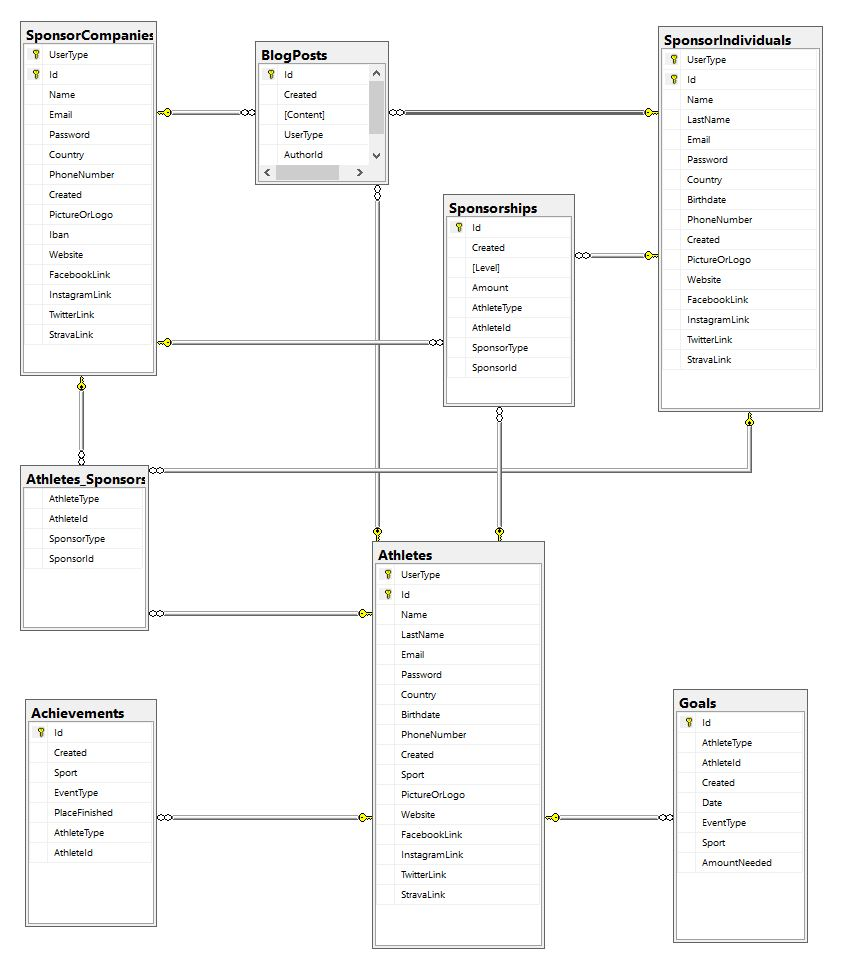
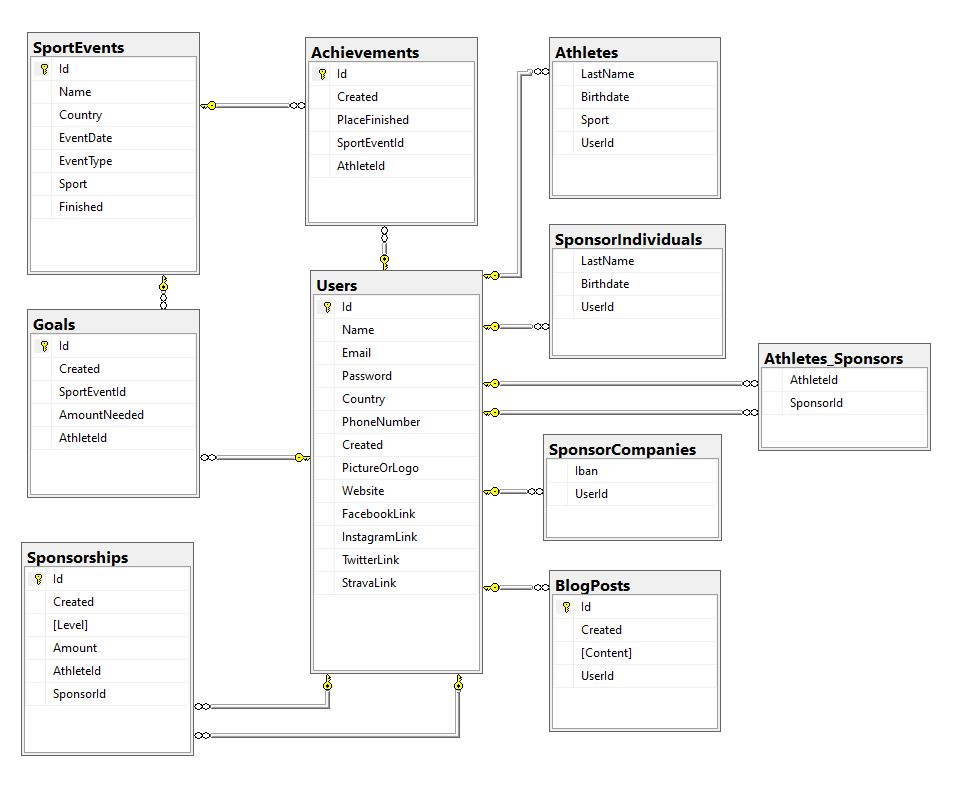
Update the ClassDiagram and the DBTableDiagram

diff --git a/SponsorSphere/Program.cs b/SponsorSphere/Program.cs
@@ -64,6 +64,8 @@ var goshoAthlete = new Athlete(
     SportsEnum.Golf
     );
 
+var sportEvent = new SportEvent(SportsEnum.MountainRunning, "Persenk ultra", EventsEnum.Race, "2020/08/16", "Bulgaria");
+
 var peshoDto = await mediator.Send(new CreateAthlete(
     peshoAthlete.Name,
     peshoAthlete.LastName,
@@ -86,7 +88,8 @@ var goshoDto = await mediator.Send(new CreateAthlete(
     goshoAthlete.Sport
     ));
 
-peshoAthlete.Achievements.Add(new Achievement(SportsEnum.MountainRunning, peshoAthlete, "race", "2020/10/01", 1));
+
+peshoAthlete.Achievements.Add(new Achievement(peshoAthlete, sportEvent, 1));
 
 var athletes = await mediator.Send( new GetAllAthletes() );
 
